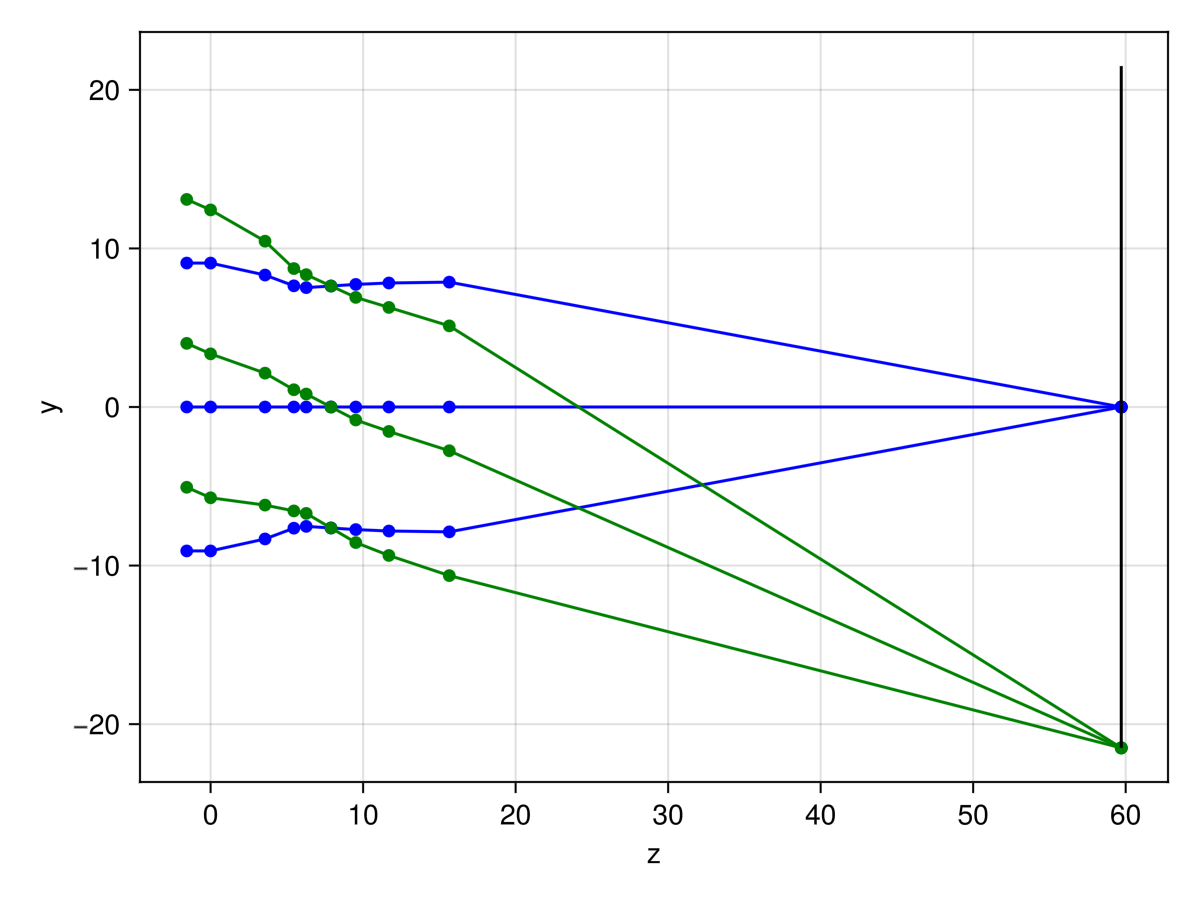
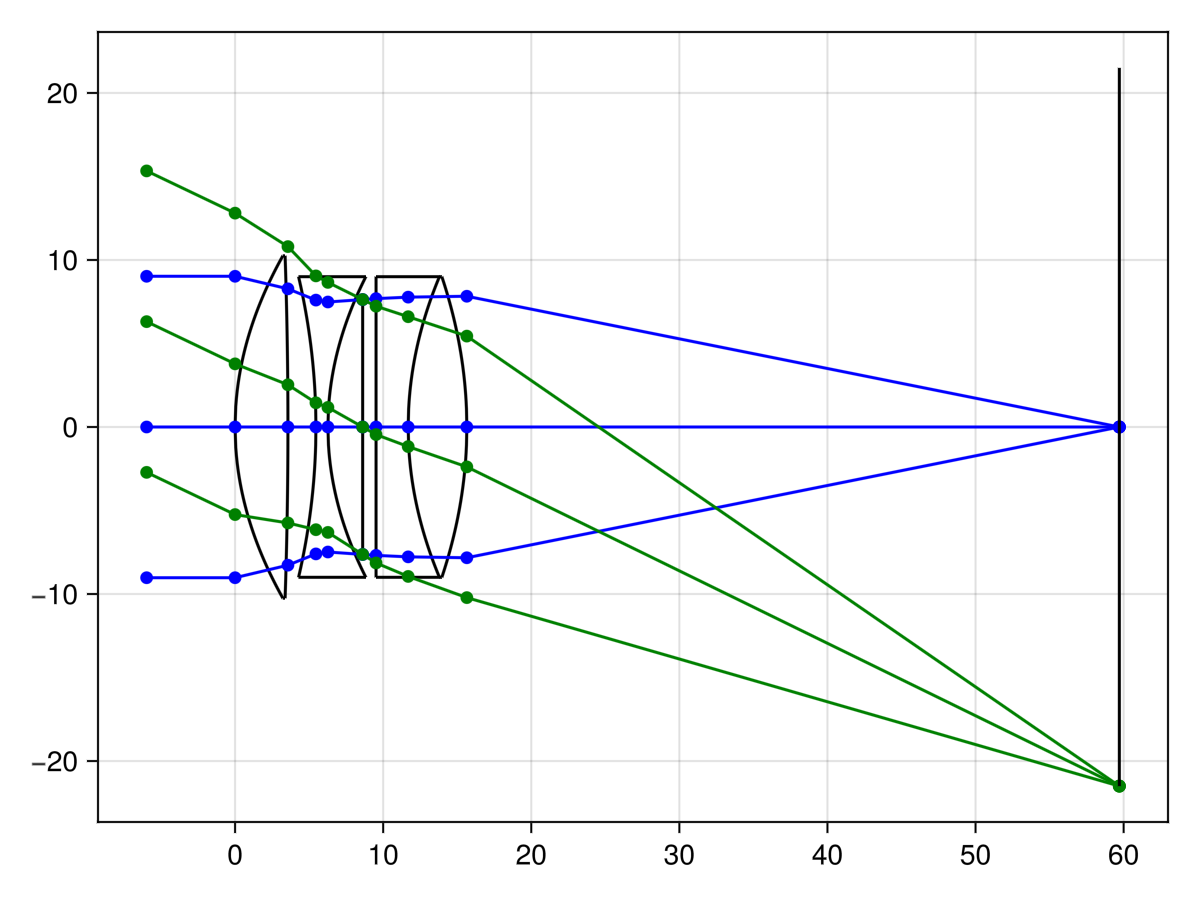
`rayplot`: add a method which draws the lens surfaces

diff --git a/README.md b/README.md
@@ -25,15 +25,15 @@ surfaces = [
       16.28    3.57     1.6116;
     -275.7     1.89     1.0;
      -34.57    0.81     1.6053;
-      15.82    1.625    1.0;
-    Inf        1.625    1.0;
+      15.82    2.345    1.0;
+    Inf        0.905    1.0;
     Inf        2.17     1.5123;
       19.2     3.96     1.6116;
      -24.0     0.0      1.0
 ]
 
 # Clear semi-apertures
-a = [15.0, 15.0, 11.0, 11.0, 7.63, 11.0, 11.0, 11.0]
+a = [10.25, 10.25, 9.0, 9.0, 7.63, 9.0, 9.0, 9.0]
 
 # image height
 h′ = -21.5
